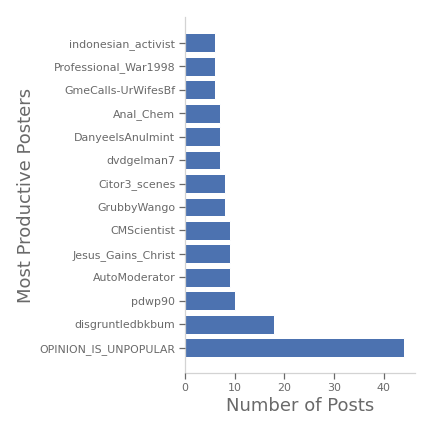
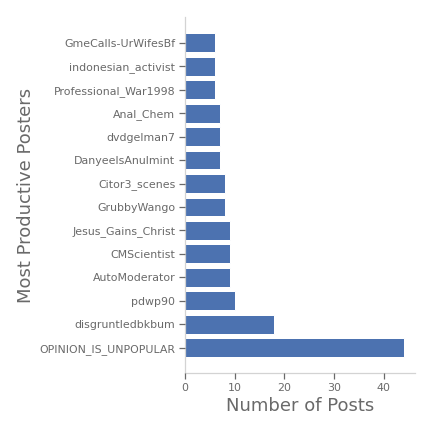
table test

diff --git a/README.md b/README.md
@@ -23,22 +23,28 @@ A total of 1300 submission authors are represented in the data. The plot below s
 ![Figure 1](figures/pda_numposts_hist.png)
 ![Figure 1](figures/pda_biggestposters.png)
 <Figure size 432x432 with 1 Axes><Figure size 432x432 with 1 Axes><Figure size 432x432 with 1 Axes>
+
 | Poster | Post Count |
 |--------|------------|
 | <a href=https://www.reddit.com/user/OPINION_IS_UNPOPULAR/>OPINION_IS_UNPOPULAR</a> | 44 |
 | <a href=https://www.reddit.com/user/disgruntledbkbum/>disgruntledbkbum</a> | 18 |
 | <a href=https://www.reddit.com/user/pdwp90/>pdwp90</a> | 10 |
-| <a href=https://www.reddit.com/user/Jesus_Gains_Christ/>Jesus_Gains_Christ</a> | 9 |
-| <a href=https://www.reddit.com/user/CMScientist/>CMScientist</a> | 9 |
 | <a href=https://www.reddit.com/user/AutoModerator/>AutoModerator</a> | 9 |
-| <a href=https://www.reddit.com/user/Citor3_scenes/>Citor3_scenes</a> | 8 |
+| <a href=https://www.reddit.com/user/CMScientist/>CMScientist</a> | 9 |
+| <a href=https://www.reddit.com/user/Jesus_Gains_Christ/>Jesus_Gains_Christ</a> | 9 |
 | <a href=https://www.reddit.com/user/GrubbyWango/>GrubbyWango</a> | 8 |
-| <a href=https://www.reddit.com/user/Anal_Chem/>Anal_Chem</a> | 7 |
-| <a href=https://www.reddit.com/user/dvdgelman7/>dvdgelman7</a> | 7 |
+| <a href=https://www.reddit.com/user/Citor3_scenes/>Citor3_scenes</a> | 8 |
 | <a href=https://www.reddit.com/user/DanyeelsAnulmint/>DanyeelsAnulmint</a> | 7 |
-| <a href=https://www.reddit.com/user/GmeCalls-UrWifesBf/>GmeCalls-UrWifesBf</a> | 6 |
-| <a href=https://www.reddit.com/user/indonesian_activist/>indonesian_activist</a> | 6 |
+| <a href=https://www.reddit.com/user/dvdgelman7/>dvdgelman7</a> | 7 |
+| <a href=https://www.reddit.com/user/Anal_Chem/>Anal_Chem</a> | 7 |
 | <a href=https://www.reddit.com/user/Professional_War1998/>Professional_War1998</a> | 6 |
+| <a href=https://www.reddit.com/user/indonesian_activist/>indonesian_activist</a> | 6 |
+| <a href=https://www.reddit.com/user/GmeCalls-UrWifesBf/>GmeCalls-UrWifesBf</a> | 6 |
+
+Markdown | Less | Pretty
+--- | --- | ---
+*Still* | `renders` | **nicely**
+1 | 2 | 3
 
 # Technology Stack
 1. Python
